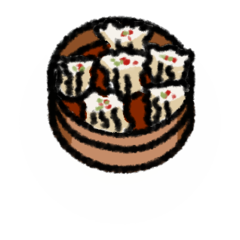
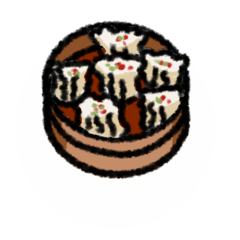
fix: optically align dimsum artwork

Changed region(s): [[0.1458, 0.0583, 0.8167, 0.7583]]

diff --git a/docs/superpowers/plans/2026-07-13-dimsum-optical-alignment.md b/docs/superpowers/plans/2026-07-13-dimsum-optical-alignment.md
@@ -1,0 +1,69 @@
+# Dimsum Optical Alignment Implementation Plan
+
+> **For agentic workers:** REQUIRED SUB-SKILL: Use superpowers:subagent-driven-development (recommended) or superpowers:executing-plans to implement this plan task-by-task. Steps use checkbox (`- [ ]`) syntax for tracking.
+
+**Goal:** Perfect Party의 dimsum 그림을 현재 위치에서 왼쪽 `5px`, 아래 `5px` 이동해 다른 음식과 광학적으로 정렬한다.
+
+**Architecture:** `FOODIMG` 매핑과 Perfect Party CSS는 유지하고 `images/DimSum.png`의 `240×240` 투명 캔버스 안에서 불투명 그림만 평행 이동한다. 원본 크기·비율·색상은 바꾸지 않으며 ImageMagick 알파 경계와 기존 Node 테스트로 검증한다.
+
+**Tech Stack:** PNG RGBA, ImageMagick 7, Node.js `node:test`
+
+## Global Constraints
+
+- 출력 크기는 정확히 `240×240` RGBA PNG다.
+- dimsum의 현재 불투명 경계 `202×210+19+15`를 `202×210+14+20`으로 변경한다.
+- `FOODIMG`, CSS, 음식 이름, 드래그 앤 드롭 로직은 변경하지 않는다.
+- 사용자 소유의 `.vscode/`는 변경하거나 커밋하지 않는다.
+
+---
+
+### Task 1: Dimsum PNG 광학 위치 보정
+
+**Files:**
+- Modify: `images/DimSum.png`
+- Test: `tests/party-guest-images.test.mjs`
+
+**Interfaces:**
+- Consumes: Perfect Party가 `FOODIMG.f_dumpling`을 통해 읽는 `images/DimSum.png`
+- Produces: 동일 경로·규격을 유지하면서 불투명 그림이 `x -5px`, `y +5px` 이동된 PNG
+
+- [x] **Step 1: 현재 자산이 목표 경계 검증에 실패하는지 확인**
+
+```bash
+actual="$(magick images/DimSum.png -format '%@' info:)"
+test "$actual" = '202x210+14+20'
+```
+
+Expected: FAIL(exit `1`) because the current value is `202x210+19+15`.
+
+- [x] **Step 2: 현재 PNG의 불투명 그림만 왼쪽 5px, 아래 5px 이동**
+
+```bash
+magick -size 240x240 canvas:none images/DimSum.png -geometry -5+5 -composite /private/tmp/DimSum-optically-aligned.png
+cp /private/tmp/DimSum-optically-aligned.png images/DimSum.png
+```
+
+- [x] **Step 3: 목표 경계와 PNG 규격을 검증**
+
+```bash
+magick images/DimSum.png -format 'size=%wx%h alpha=%[fx:minima.a]..%[fx:maxima.a] trim=%@\n' info:
+```
+
+Expected: `size=240x240 alpha=0..1 trim=202x210+14+20`.
+
+- [x] **Step 4: 기존 음식 자산 테스트와 전체 회귀 테스트 실행**
+
+```bash
+node --test tests/party-guest-images.test.mjs
+node --test tests/*.test.mjs
+git diff --check
+```
+
+Expected: focused tests PASS, all tests PASS, and `git diff --check` emits no output.
+
+- [x] **Step 5: 자산 변경 커밋**
+
+```bash
+git add images/DimSum.png docs/superpowers/plans/2026-07-13-dimsum-optical-alignment.md
+git commit -m "fix: optically align dimsum artwork"
+```